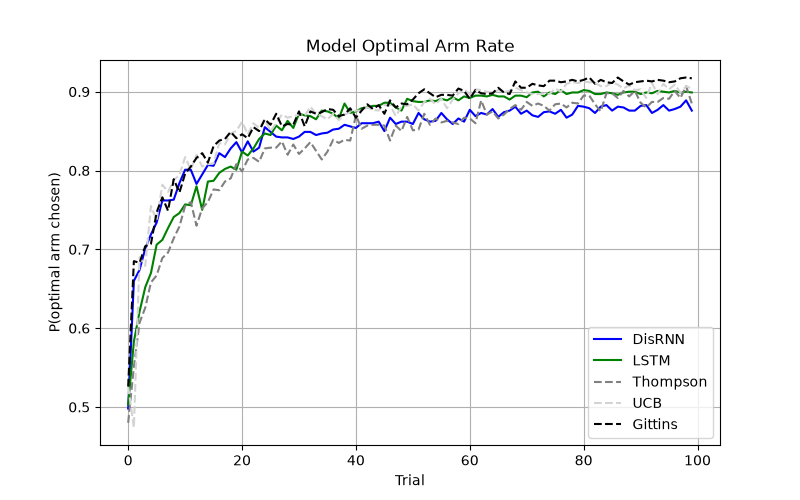
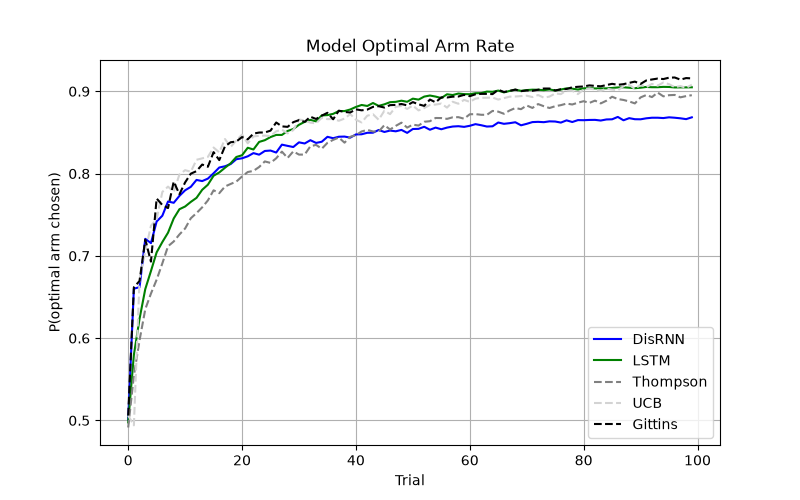
tuned hyperparameters

diff --git a/train.py b/train.py
@@ -5,8 +5,6 @@ import os
 os.makedirs(f'checkpoints/seed{seed}', exist_ok= True)
 os.makedirs(f'figs/seed{seed}', exist_ok= True)
 
-m_min = torch.logit(torch.tensor(0.01)).item()
-
 
 # initialize training models and optimizers
 DisRNN_gamma = 0.98
@@ -17,7 +15,7 @@ DisRNN_optimizer = torch.optim.Adam(
     lr= DisRNN_lr
 )
 
-LSTM_gamma = 0.98
+LSTM_gamma = 0.95
 LSTM_lr = 5e-3
 LSTM_critic = torch.nn.Linear(LSTM_hidden_size, 1).to(device)
 LSTM_optimizer = torch.optim.Adam(
@@ -38,6 +36,9 @@ warmup_start = 5000
 warmup_end = 10_000
 
 train_LSTM_until_ep = 200_000
+
+m_min = torch.logit(torch.tensor(0.01)).item()
+sigma_min = torch.log(torch.tensor(0.01)).item()
 
 
 # training helpers
@@ -201,11 +202,11 @@ def run_training_episode(phase, train_LSTM= True):
     DisRNN_optimizer.step()
     with torch.no_grad():
         DisRNN.logit_M_h.clamp_(min= m_min)
-        DisRNN.log_sigma_h.clamp_(max= 0.0)
+        DisRNN.log_sigma_h.clamp_(min= sigma_min, max= 0.0)
         DisRNN.logit_M_x.clamp_(min= m_min)
-        DisRNN.log_sigma_x.clamp_(max= 0.0)
+        DisRNN.log_sigma_x.clamp_(min= sigma_min, max= 0.0)
         DisRNN.logit_M_z.clamp_(min= m_min)
-        DisRNN.log_sigma_z.clamp_(max= 0.0)
+        DisRNN.log_sigma_z.clamp_(min= sigma_min, max= 0.0)
 
     # LSTM update
     if train_LSTM:

diff --git a/test.py b/test.py
@@ -143,6 +143,9 @@ def optimal_arm_rate(raw_regrets):
 
 
 
+# build Gittins index table
+gittins_table = compute_gittins_table(max_total= trials+1, gamma= 0.99, N= 200, tol= 1e-4)
+
 # load best models
 best_DisRNN = torch.load(f'checkpoints/seed{seed}/best_DisRNN.pt')
 DisRNN.load_state_dict(best_DisRNN['DisRNN_state_dict'])
@@ -150,9 +153,6 @@ DisRNN.load_state_dict(best_DisRNN['DisRNN_state_dict'])
 best_LSTM = torch.load(f'checkpoints/seed{seed}/best_LSTM.pt')
 LSTM.load_state_dict(best_LSTM['LSTM_state_dict'])
 LSTM_readout.load_state_dict(best_LSTM['LSTM_readout_state_dict'])
-
-# build Gittins index table
-gittins_table = compute_gittins_table(max_total= trials+1, gamma= 0.99, N= 200, tol= 1e-4)
 
 # testing
 results = run_tests(1000)

diff --git a/latents.py b/latents.py
@@ -7,8 +7,8 @@ best_DisRNN = torch.load(f'checkpoints/seed{seed}/best_DisRNN.pt')
 DisRNN.load_state_dict(best_DisRNN['DisRNN_state_dict'])
 print_bottleneck_parameters(DisRNN)
 
-trajectories = 5
-for _ in range(trajectories):
+ex_sessions = 10
+for _ in range(ex_sessions):
     # set task
     probs = D(1, num_arms, device= device)
             
